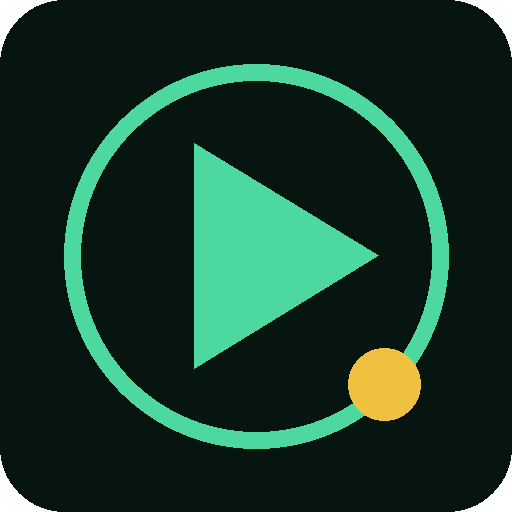
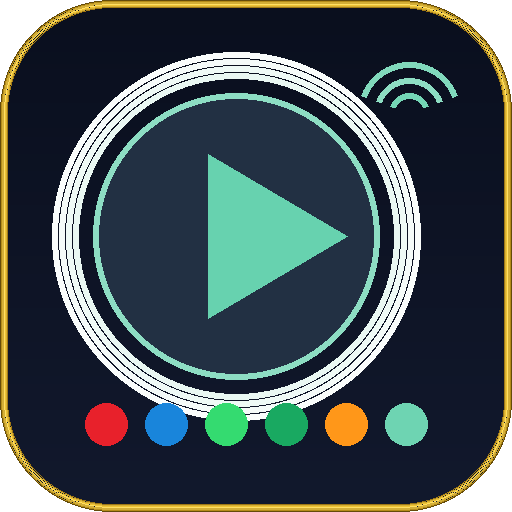
Add files via upload

diff --git a/index.html b/index.html
@@ -3,18 +3,22 @@
 <head>
 <meta charset="UTF-8">
 <meta name="viewport" content="width=device-width, initial-scale=1.0, viewport-fit=cover">
-<meta name="mobile-web-app-capable" content="yes">
-<link rel="manifest" href="manifest.json">
-
-<meta name="apple-mobile-web-app-status-bar-style" content="black-translucent">
+<meta name="apple-mobile-web-app-capable" content="yes">
+<meta name="apple-mobile-web-app-status-bar-style" content="default">
 <meta name="apple-mobile-web-app-title" content="StreamNL">
-<meta name="theme-color" content="#071510">
+<meta name="theme-color" content="#a8dfc0">
+  <meta name="mobile-web-app-capable" content="yes"/>
+  <meta name="theme-color" content="#0a0f1e"/>
+  <link rel="manifest" href="manifest.json"/>
+  <link rel="icon" type="image/png" sizes="192x192" href="icon-192.png"/>
+  <link rel="icon" type="image/png" sizes="512x512" href="icon-512.png"/>
+  <link rel="apple-touch-icon" href="icon-512.png"/>
+<link rel="manifest" href="manifest.json">
[2 lines of base64/hex data omitted]
 <title>StreamNL</title>
 <link rel="preconnect" href="https://fonts.googleapis.com">
-<link href="https://fonts.googleapis.com/css2?family=Playfair+Display:ital,wght@0,700;0,900;1,700&family=DM+Sans:ital,wght@0,300;0,400;0,500;0,600;0,700;1,400&display=swap" rel="stylesheet" media="print" onload="this.media='all'">
-<noscript><link href="https://fonts.googleapis.com/css2?family=Playfair+Display:ital,wght@0,700;0,900;1,700&family=DM+Sans:ital,wght@0,300;0,400;0,500;0,600;0,700;1,400&display=swap" rel="stylesheet"></noscript>
+<link href="https://fonts.googleapis.com/css2?family=Playfair+Display:ital,wght@0,700;0,900;1,700&family=DM+Sans:ital,wght@0,300;0,400;0,500;0,600;0,700;1,400&display=swap" rel="stylesheet">
 <style>
 :root{
   /* Mint dark palette */
@@ -66,9 +70,6 @@ html{background:var(--bg)}
 body{font-family:"DM Sans",sans-serif;background:var(--bg);color:var(--text);
   min-height:100dvh;overflow-x:hidden;
   padding-bottom:calc(var(--tab-h) + env(safe-area-inset-bottom) + 8px)}
-
-/* Vul de lege ruimte onder de content */
-.screen{min-height:calc(100dvh - var(--tab-h) - env(safe-area-inset-bottom))}
 
 /* === HEADER === */
 .app-header{
@@ -825,10 +826,25 @@ body{font-family:"DM Sans",sans-serif;background:var(--bg);color:var(--text);
     </div>
   </div>
 </div>
-
+if ("serviceWorker" in navigator) {
+    window.addEventListener("load", () => {
+      navigator.serviceWorker.register("./sw.js").catch(() => {});
+    });
+  }
 <script>
 
 
+function switchTab(name) {
+  document.querySelectorAll('.screen').forEach(s => s.classList.remove('active'));
+  document.querySelectorAll('.tab-btn').forEach(b => b.classList.remove('active'));
+  const scr = document.getElementById('screen-' + name);
+  if (scr) scr.classList.add('active');
+  const btn = document.getElementById('tab-' + name);
+  if (btn) btn.classList.add('active');
+  window.scrollTo(0,0);
+  if (name==='watchlist') renderWatchlist();
+  if (name==='kanalen')   renderChannels();
+}
 function goURL(url) { window.location.href = url; }
 
 function updateCountdown() {
@@ -840,6 +856,7 @@ function updateCountdown() {
   if(el) el.textContent = msg;
   if(st) st.textContent = days===7?'0':days;
 }
+updateCountdown();
 
 const pool = [
   {title:'No Country for Old Men',year:'2007',platform:'YouTube',url:'https://www.youtube.com/results?search_query=no+country+for+old+men+2007+full+movie',genre:'Thriller',desc:'Genadeloos neo-noir. Cormac McCarthy meesterwerk.'},
@@ -993,6 +1010,9 @@ Regels:
   }
   document.getElementById('recRefreshBtn').disabled = false;
 }
+
+// Init recs
+loadRecs(false);
 
 const WPOOL = [
   [ // Week A
@@ -1193,6 +1213,10 @@ function doSearch(platform){
 }
 function quickSearch(term){document.getElementById('searchInput').value=term;updateSearchLinks();document.getElementById('searchInput').focus();}
 
+loadRecs(false);
+renderWatchlist();
+renderChannels();
+
 // ── LOGO LOADER ────────────────────────────────────────
 const LOGO_CACHE_KEY = 'snl_logo_cache_v1';
 const LOGO_SRC = d => [
@@ -1244,46 +1268,17 @@ function initLogos() {
   document.querySelectorAll('[data-domain]').forEach(loadLogo);
 }
 
-// Expose alle functies globaal zodat inline onclick werkt
-window.switchTab = function(name) {
-  document.querySelectorAll('.screen').forEach(s => s.classList.remove('active'));
-  document.querySelectorAll('.tab-btn').forEach(b => b.classList.remove('active'));
-  const scr = document.getElementById('screen-' + name);
-  if (scr) scr.classList.add('active');
-  const btn = document.getElementById('tab-' + name);
-  if (btn) btn.classList.add('active');
-  window.scrollTo(0,0);
-  if (name==='watchlist') renderWatchlist();
-  if (name==='kanalen')   renderChannels();
+const _origST = switchTab;
+switchTab = function(name) {
+  _origST(name);
   setTimeout(() => {
     document.querySelectorAll('.screen.active [data-domain]').forEach(el => {
       if (!el.querySelector('.logo-img')) loadLogo(el);
     });
   }, 80);
 };
-window.goURL         = function(url) { window.location.href = url; };
-window.openSurprise  = openSurprise;
-window.closeSurprise = closeSurprise;
-window.goToSurprise  = goToSurprise;
-window.openSearch    = openSearch;
-window.closeSearch   = closeSearch;
-window.doSearch      = doSearch;
-window.quickSearch   = quickSearch;
-window.saveApiKey    = saveApiKey;
-window.loadRecs      = loadRecs;
-window.toggleWatch   = toggleWatch;
-window.resetWatchlist= resetWatchlist;
-window.addChannel    = addChannel;
-window.deleteChannel = deleteChannel;
-window.startLP       = startLP;
-window.cancelLP      = cancelLP;
 
 initLogos();
-
-try { updateCountdown(); } catch(e) { console.error('countdown',e); }
-try { loadRecs(false); } catch(e) { console.error('recs',e); }
-try { renderWatchlist(); } catch(e) { console.error('watchlist',e); }
-try { renderChannels(); } catch(e) { console.error('channels',e); }
 
 </script>
 </body>

diff --git a/sw.js b/sw.js
@@ -1,0 +1,20 @@
+// StreamNL – Service Worker v2026
+const CACHE = "streamnl-v1";
+const ASSETS = ["./index.html","./manifest.json","./icon-192.png","./icon-512.png","./icon-maskable-512.png"];
+
+self.addEventListener("install", e => {
+  e.waitUntil(caches.open(CACHE).then(c => c.addAll(ASSETS)).then(() => self.skipWaiting()));
+});
+self.addEventListener("activate", e => {
+  e.waitUntil(
+    caches.keys().then(keys =>
+      Promise.all(keys.filter(k => k !== CACHE).map(k => caches.delete(k)))
+    ).then(() => self.clients.claim())
+  );
+});
+self.addEventListener("fetch", e => {
+  const url = e.request.url;
+  if (url.includes("anthropic.com") || url.includes("googleapis.com") ||
+      url.includes("fonts.gstatic.com")) return;
+  e.respondWith(caches.match(e.request).then(c => c || fetch(e.request)));
+});
